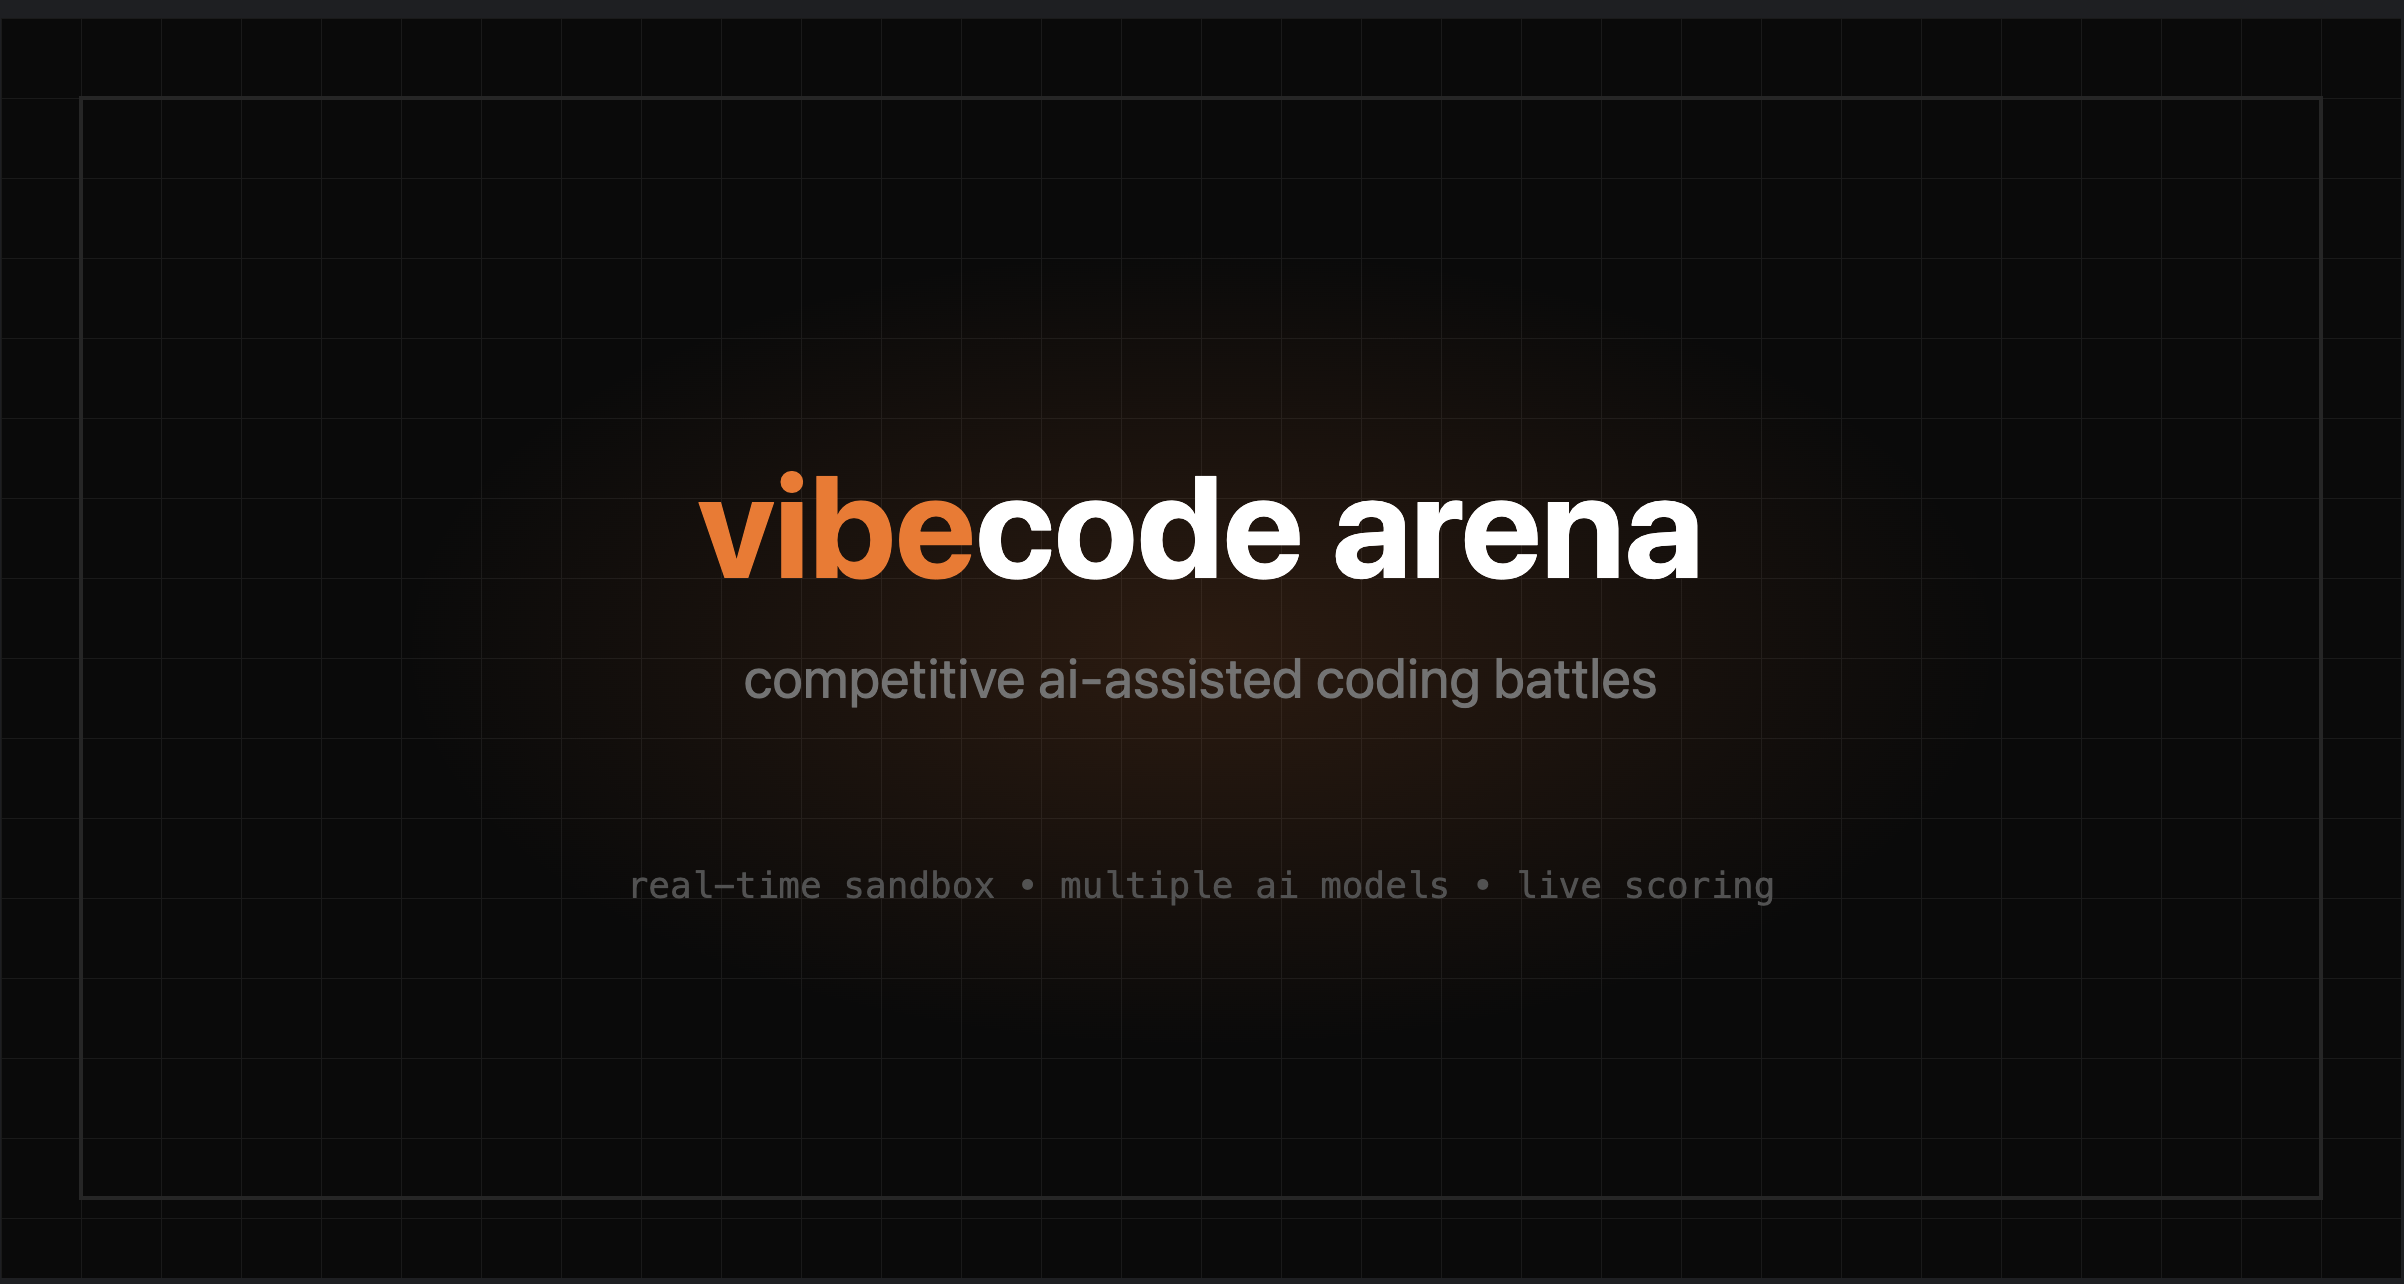
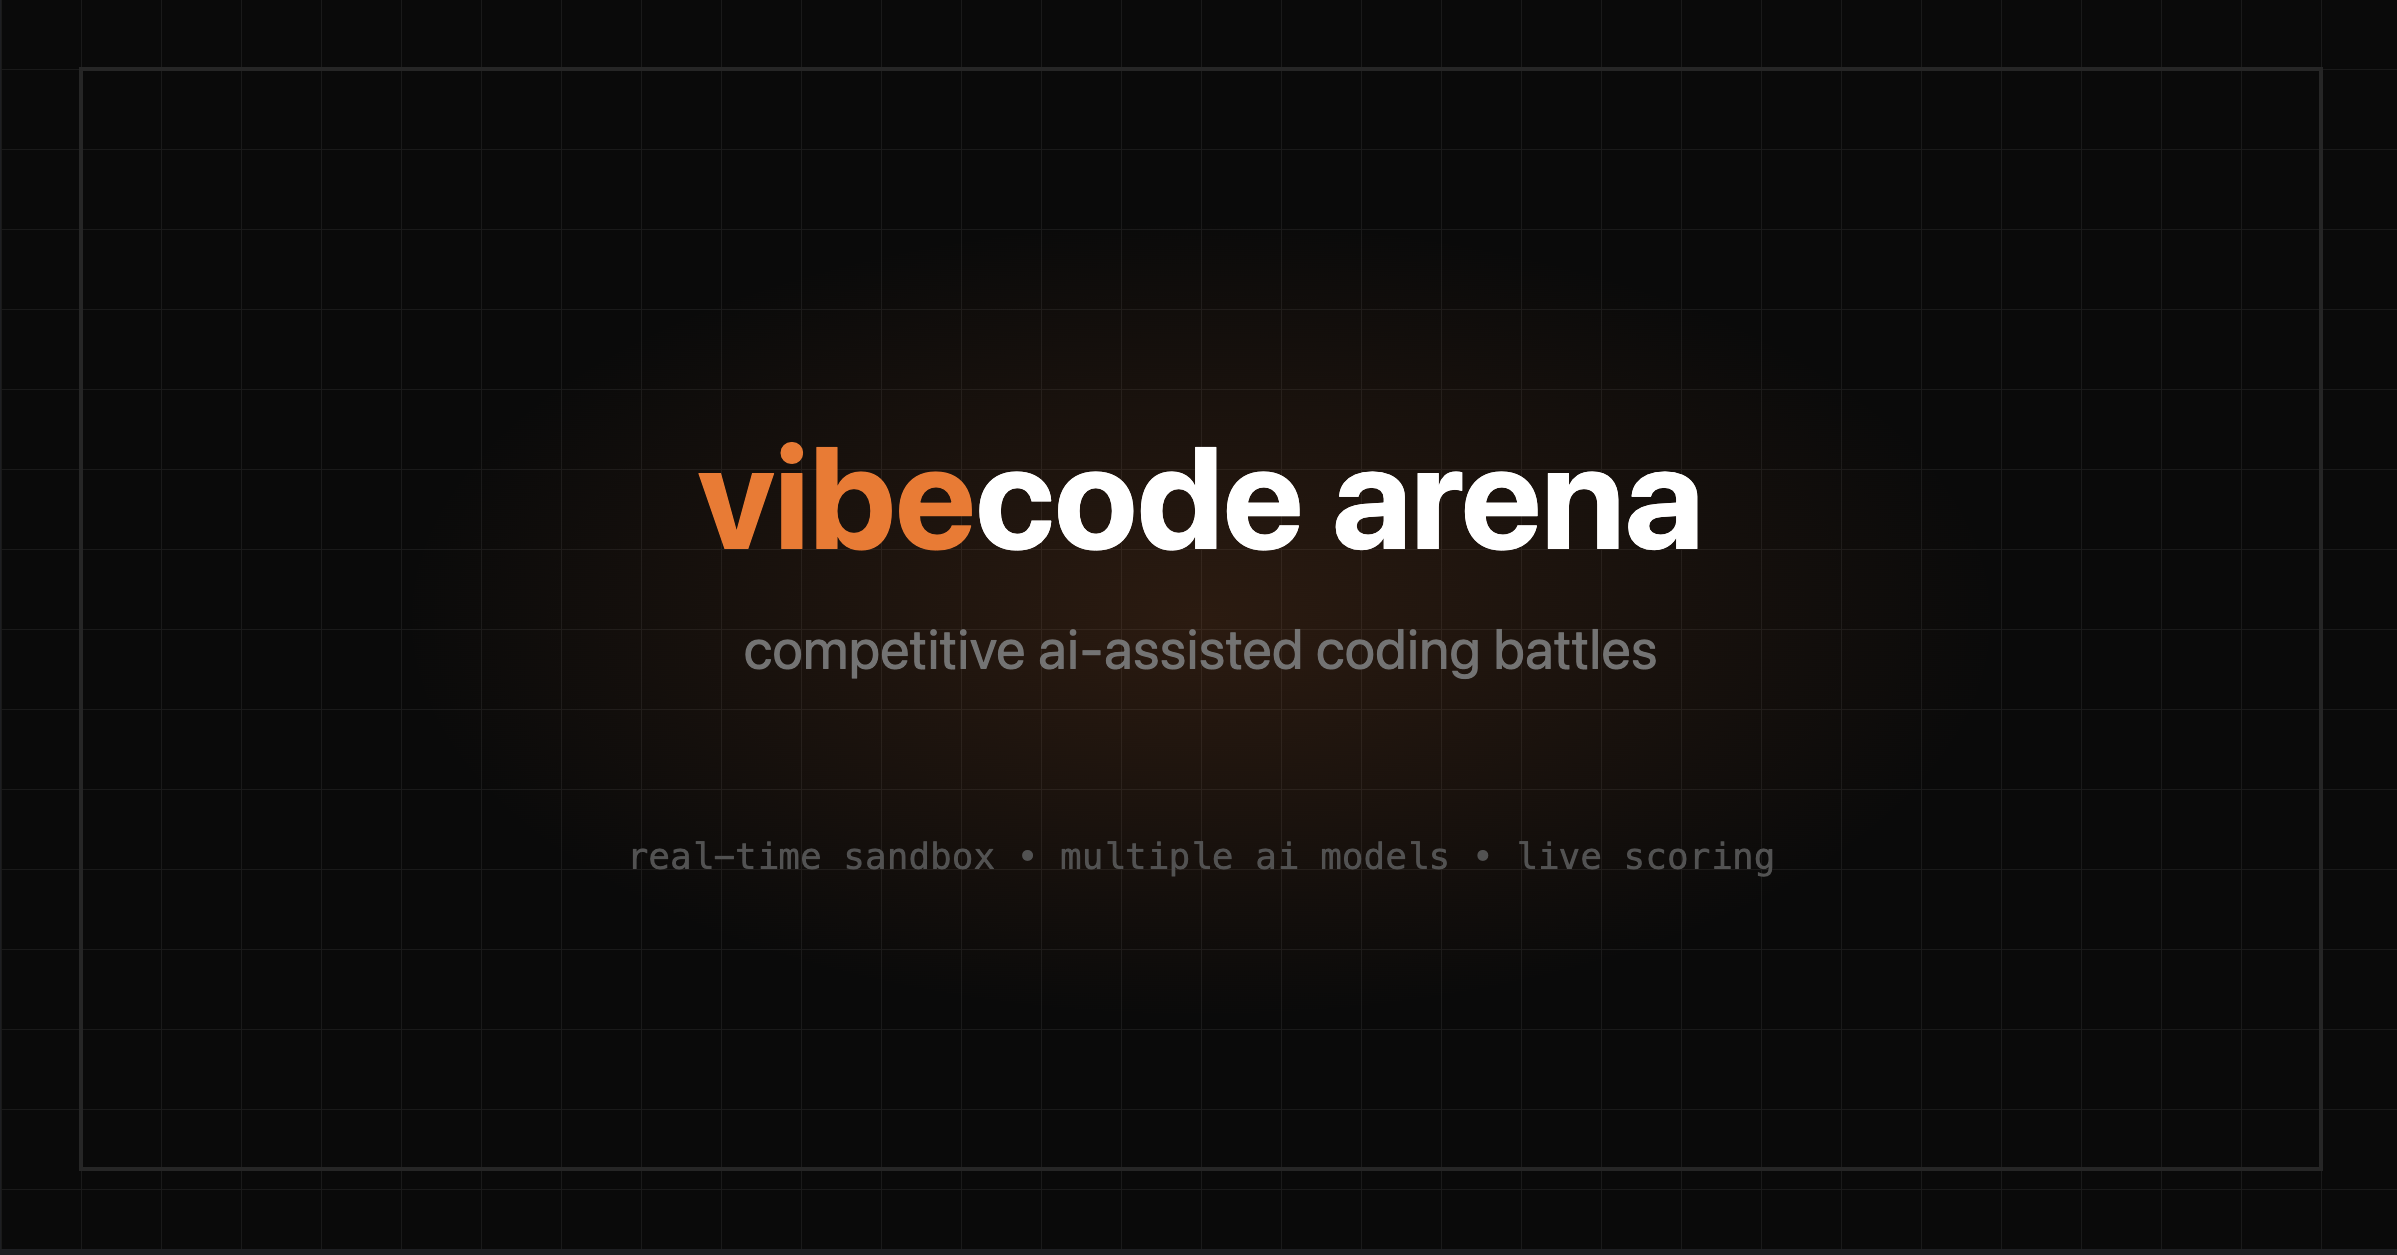
fix: deployment

diff --git a/src/lib/server/do-client.ts b/src/lib/server/do-client.ts
@@ -14,9 +14,20 @@ import { getShuffledChallenges } from '$lib/server/challenges';
 // Configuration
 // ============================================================================
 
-const WORKER_URL = dev
-	? 'http://localhost:8788'
-	: (env.WORKER_URL || 'https://vibecode-arena.workers.dev');
+// Internal URL for server-to-worker calls (can be host.docker.internal in Docker)
+// Using getters to ensure env vars are read at request time, not module load time
+function getWorkerUrl(): string {
+	if (dev) return 'http://localhost:8788';
+	// Try process.env first (works better with bun), fallback to SvelteKit env
+	return process.env.WORKER_URL || env.WORKER_URL || 'https://api.vibecodearena.dev';
+}
+
+// Public URL for browser-to-worker WebSocket (must be reachable from browser)
+function getPublicWorkerUrl(): string {
+	if (dev) return 'http://localhost:8788';
+	// Try process.env first (works better with bun), fallback to SvelteKit env
+	return process.env.PUBLIC_WORKER_URL || env.PUBLIC_WORKER_URL || process.env.WORKER_URL || env.WORKER_URL || 'https://api.vibecodearena.dev';
+}
 
 // ============================================================================
 // Types
@@ -42,7 +53,7 @@ interface SubmitSolutionResult {
 // ============================================================================
 
 async function rpc<T>(roomCode: string, method: string, params?: Record<string, unknown>): Promise<T> {
-	const res = await fetch(`${WORKER_URL}/room/${roomCode}`, {
+	const res = await fetch(`${getWorkerUrl()}/room/${roomCode}`, {
 		method: 'POST',
 		headers: { 'Content-Type': 'application/json' },
 		body: JSON.stringify({ method, params }),
@@ -57,7 +68,7 @@ async function rpc<T>(roomCode: string, method: string, params?: Record<string, 
 }
 
 async function post<T>(path: string, body: Record<string, unknown>): Promise<T> {
-	const res = await fetch(`${WORKER_URL}${path}`, {
+	const res = await fetch(`${getWorkerUrl()}${path}`, {
 		method: 'POST',
 		headers: { 'Content-Type': 'application/json' },
 		body: JSON.stringify(body),
@@ -72,7 +83,7 @@ async function post<T>(path: string, body: Record<string, unknown>): Promise<T> 
 export const room = {
 	/** Get room state (public, sanitized) */
 	async get(roomCode: string): Promise<Room | null> {
-		const res = await fetch(`${WORKER_URL}/room/${roomCode}`);
+		const res = await fetch(`${getWorkerUrl()}/room/${roomCode}`);
 		const data = await res.json() as { room: Room | null };
 		return data.room;
 	},
@@ -90,7 +101,7 @@ export const room = {
 
 	/** Join an existing room */
 	async join(roomCode: string, playerName: string, model: ModelId): Promise<{ room: Room; playerId: string } | { error: string } | null> {
-		const res = await fetch(`${WORKER_URL}/join/${roomCode}`, {
+		const res = await fetch(`${getWorkerUrl()}/join/${roomCode}`, {
 			method: 'POST',
 			headers: { 'Content-Type': 'application/json' },
 			body: JSON.stringify({ playerName, model }),
@@ -198,9 +209,9 @@ export const sandbox = {
 // WebSocket
 // ============================================================================
 
-/** Get WebSocket URL for real-time updates */
+/** Get WebSocket URL for real-time updates (uses public URL for browser) */
 export function getWebSocketUrl(roomCode: string, playerId: string): string {
-	const wsUrl = WORKER_URL.replace('http', 'ws');
+	const wsUrl = getPublicWorkerUrl().replace('http', 'ws');
 	return `${wsUrl}/room/${roomCode}?playerId=${playerId}`;
 }
 

diff --git a/src/hooks.server.ts b/src/hooks.server.ts
@@ -1,4 +1,5 @@
 import { dev } from '$app/environment';
+import { env } from '$env/dynamic/private';
 import type { Handle } from '@sveltejs/kit';
 
 /**
@@ -7,9 +8,13 @@ import type { Handle } from '@sveltejs/kit';
  */
 function getSecurityHeaders(): Record<string, string> {
 	// WebSocket URLs for DO connection + Vite HMR in dev
+	// Use PUBLIC_WORKER_URL for browser connections (falls back to WORKER_URL)
+	// Try process.env first (works better with bun), fallback to SvelteKit env
+	const publicWorkerUrl = process.env.PUBLIC_WORKER_URL || env.PUBLIC_WORKER_URL || process.env.WORKER_URL || env.WORKER_URL || 'https://api.vibecodearena.dev';
+	const wsWorkerUrl = publicWorkerUrl.replace(/^http/, 'ws');
 	const wsUrls = dev
-		? 'ws://localhost:5173 ws://localhost:8788 wss://localhost:5173 wss://localhost:8788'
-		: 'wss://vibecode-arena.workers.dev';
+		? `ws://localhost:5173 ws://localhost:8788 wss://localhost:5173 wss://localhost:8788 ${wsWorkerUrl}`
+		: wsWorkerUrl;
 
 	return {
 		// Prevent MIME type sniffing
@@ -31,7 +36,7 @@ function getSecurityHeaders(): Record<string, string> {
 			// Allow images from self and E2B sandbox hosts
 			"img-src 'self' data: blob: https://*.e2b.app",
 			// Allow connections to self, E2B, and DO worker
-			`connect-src 'self' https://*.e2b.app wss://*.e2b.app ${wsUrls}`,
+			`connect-src 'self' https://*.e2b.app wss://*.e2b.app ${publicWorkerUrl} ${wsUrls}`,
 			// Allow fonts from self and Google Fonts
 			"font-src 'self' https://fonts.gstatic.com",
 			// Allow frames from E2B sandbox hosts for preview

diff --git a/src/lib/server/env.ts b/src/lib/server/env.ts
@@ -1,9 +1,10 @@
 /**
  * Environment variable validation.
  * Uses Valibot to ensure all required env vars are present and valid.
+ * Uses dynamic imports for runtime configuration (required for Docker).
  */
 import * as v from 'valibot';
-import { E2B_API_KEY, OPENROUTER_API_KEY } from '$env/static/private';
+import { env as dynamicEnv } from '$env/dynamic/private';
 
 const envSchema = v.object({
 	E2B_API_KEY: v.pipe(v.string(), v.minLength(1, 'E2B_API_KEY is required')),
@@ -16,8 +17,8 @@ const envSchema = v.object({
  */
 function validateEnv() {
 	const result = v.safeParse(envSchema, {
-		E2B_API_KEY,
-		OPENROUTER_API_KEY
+		E2B_API_KEY: dynamicEnv.E2B_API_KEY,
+		OPENROUTER_API_KEY: dynamicEnv.OPENROUTER_API_KEY
 	});
 
 	if (!result.success) {

diff --git a/svelte.config.js b/svelte.config.js
@@ -1,4 +1,4 @@
-import adapter from '@sveltejs/adapter-auto';
+import adapter from '@sveltejs/adapter-node';
 import { vitePreprocess } from '@sveltejs/vite-plugin-svelte';
 
 const dev = process.env.NODE_ENV !== 'production';

diff --git a/README.md b/README.md
@@ -1,8 +1,8 @@
 # vibecode arena
 
-![Banner](./static/og-image.png)
+[![Banner](./static/og-image.png)](https://vibecodearena.dev)
 
-Competitive multiplayer coding game where players pick an AI model and race to build UI components. Prompt your AI, watch your code render live, and outscore your friends.
+Competitive multiplayer coding game where players pick an AI model and race to build UI components. Prompt your AI, watch your code render live, and outscore your friends. Kudos to the Claude Opus 4.5 for making me able to ship this over the weekend!
 
 ![TypeScript](https://img.shields.io/badge/TypeScript-3178C6?logo=typescript&logoColor=fff)
 ![Svelte](https://img.shields.io/badge/Svelte-FF3E00?logo=svelte&logoColor=fff)
@@ -113,17 +113,41 @@ PUBLIC_DO_URL=http://localhost:8788  # Durable Object URL (default for dev)
 ### Cloudflare Workers (Durable Object)
 
 ```bash
-# Deploy the worker
-npm run deploy:worker
-
-# Set secrets
-wrangler secret put OPENROUTER_API_KEY
-wrangler secret put E2B_API_KEY
+# Deploy the worker (creates api.vibecodearena.dev)
+bun run deploy:worker
 ```
 
-### Frontend
+### SvelteKit (GCP Cloud Run)
 
-Deploy the SvelteKit app to your preferred platform (Vercel, Cloudflare Pages, etc.)
+The SvelteKit app runs in a Docker container on GCP Cloud Run (required because E2B SDK doesn't work in edge runtimes).
+
+```bash
+# Build the Docker image
+docker build -t vibecode-arena .
+
+# Test locally (with worker running)
+docker run -p 3000:3000 \
+  -e E2B_API_KEY="..." \
+  -e OPENROUTER_API_KEY="..." \
+  -e WORKER_URL="http://host.docker.internal:8788" \
+  -e PUBLIC_WORKER_URL="http://localhost:8788" \
+  -e ORIGIN="http://localhost:3000" \
+  vibecode-arena
+
+# Deploy to GCP Cloud Run
+gcloud run deploy vibecode-arena \
+  --image gcr.io/YOUR_PROJECT/vibecode-arena \
+  --set-env-vars "ORIGIN=https://vibecodearena.dev"
+```
+
+**Environment Variables (Cloud Run):**
+| Variable | Description |
+|----------|-------------|
+| `E2B_API_KEY` | E2B API key |
+| `OPENROUTER_API_KEY` | OpenRouter API key |
+| `ORIGIN` | Your domain (e.g., `https://vibecodearena.dev`) |
+| `WORKER_URL` | Worker API URL (default: `https://api.vibecodearena.dev`) |
+| `PUBLIC_WORKER_URL` | Public WebSocket URL (default: same as `WORKER_URL`) |
 
 ## Architecture
 
@@ -131,14 +155,14 @@ Deploy the SvelteKit app to your preferred platform (Vercel, Cloudflare Pages, e
                               WebSocket (game events)
 ┌──────────────┐            ┌─────────────────────────┐
 │    Browser   │◄──────────►│  Cloudflare Worker (DO) │
-└──────┬───────┘            │  - Game state           │
-       │                    │  - Room management      │
-       │ HTTP               │  - Round progression    │
+└──────┬───────┘            │  api.vibecodearena.dev  │
+       │                    │  - Game state           │
+       │ HTTP               │  - Room management      │
        ▼                    └───────────▲─────────────┘
 ┌──────────────┐                        │
 │   SvelteKit  │────────────────────────┘ HTTP (RPC)
-│   Server     │
-│              │───────────► OpenRouter (AI chat)
+│   (GCP Cloud │
+│    Run)      │───────────► OpenRouter (AI chat)
 │              │───────────► E2B (sandboxes)
 └──────────────┘
 ```
@@ -147,6 +171,51 @@ Deploy the SvelteKit app to your preferred platform (Vercel, Cloudflare Pages, e
 - **SvelteKit** serves UI, proxies AI chat, manages sandboxes, and calls DO for game actions
 - **E2B** runs player code in isolated sandboxes with live preview
 - **OpenRouter** routes to Claude, GPT, Gemini, Llama, etc.
+
+### Why the Split Architecture?
+
+Initially, I planned to run everything on Cloudflare (SvelteKit on Pages + Durable Objects). However, mid-implementation I discovered that the [E2B SDK doesn't support Cloudflare Workers or edge runtimes](https://e2b.dev/docs/troubleshooting/sdks/workers-edge-runtime) due to transport layer incompatibilities.
+
+To save myself from the pain I landed on a hybrid approach:
+
+- **Cloudflare Workers + Durable Objects** — Real-time game state, WebSocket connections, room management
+- **GCP Cloud Run (Docker)** — SvelteKit app with E2B sandbox management and AI chat
+
+This means the SvelteKit server communicates with the Durable Object via HTTP RPC, while browsers connect directly to the Worker via WebSocket for real-time updates.
+
+## Planned Features
+
+### Truly Agentic Judges
+
+Currently, the judge "agents" (CodeAnalyzer, VisualMatcher, InteractionTester) are single-shot LLM evaluators. The plan is to make them genuinely agentic:
+
+- **Tool use** — Agents can interact with sandboxes, take screenshots, simulate user interactions
+- **Observation loops** — "I'm not confident about the hover state, let me check" → takes screenshot → adjusts score
+- **Multi-step reasoning** — Break down evaluation into steps, verify assumptions
+- **Cross-agent communication** — VisualMatcher can ask InteractionTester to verify a behavior
+
+### Game Modes
+
+- **Shared LLM** — Everyone uses the same model, pure prompting skill competition
+- **Configurable rounds** — Set number of rounds (3, 5, 10) or play until time runs out
+- **Time limits** — Per-challenge time (30s, 60s, 120s) or total game time
+- **Difficulty levels** — Controls how strict the AI judge is and complexity of challenges
+
+### AI-Generated Challenges
+
+- **Dynamic challenge generation** — LLM creates new UI challenges on the fly
+- **Difficulty scaling** — Generates easier/harder challenges based on player performance
+- **Themed rounds** — "Retro UI", "Glassmorphism", "Brutalist" themed challenge sets
+
+### Full Cloudflare Deployment
+
+Currently, the SvelteKit app runs on GCP Cloud Run because E2B's SDK doesn't support edge runtimes. I'd love to consolidate everything on Cloudflare. Potential approaches:
+
+- **E2B microservice** — Extract E2B operations into a minimal Node.js service running on Cloud Run, move everything else to Cloudflare Pages
+- **Cloudflare's `nodejs_compat`** — Keep an eye on Cloudflare's expanding Node.js compatibility; future updates might make E2B SDK work in Workers
+- **Wait for E2B edge support** — E2B might add native edge runtime support eventually
+
+The goal is to have the entire stack on Cloudflare's edge for lower latency and simpler deployment.
 
 ## License
 